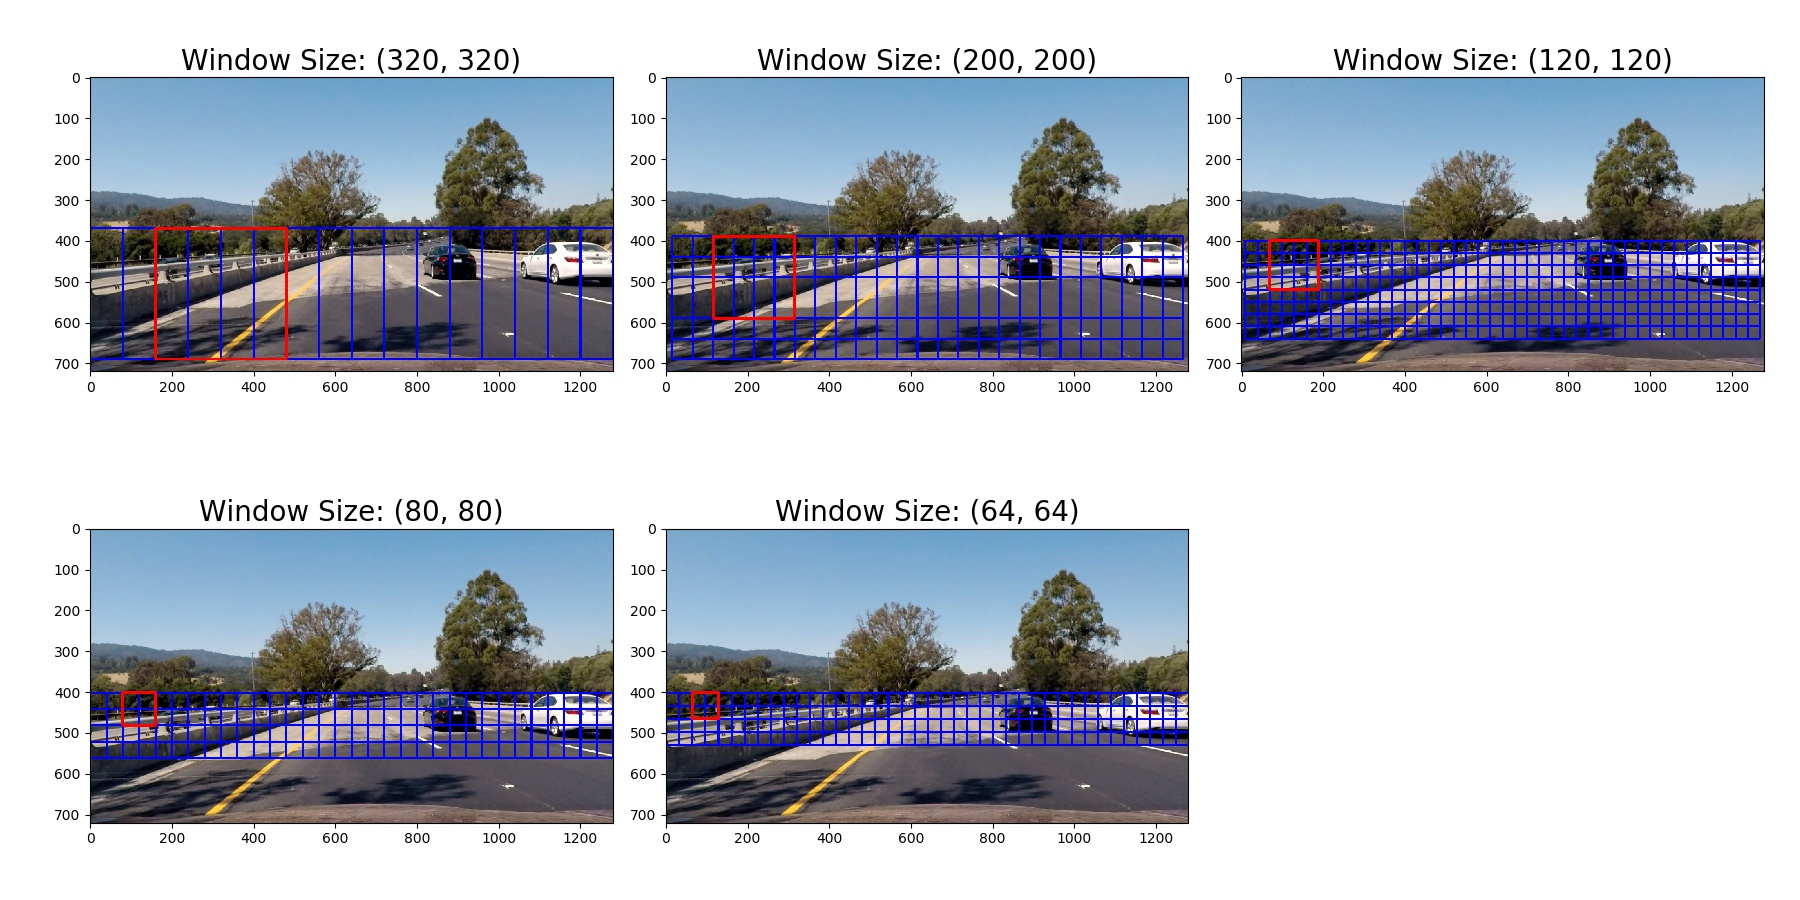
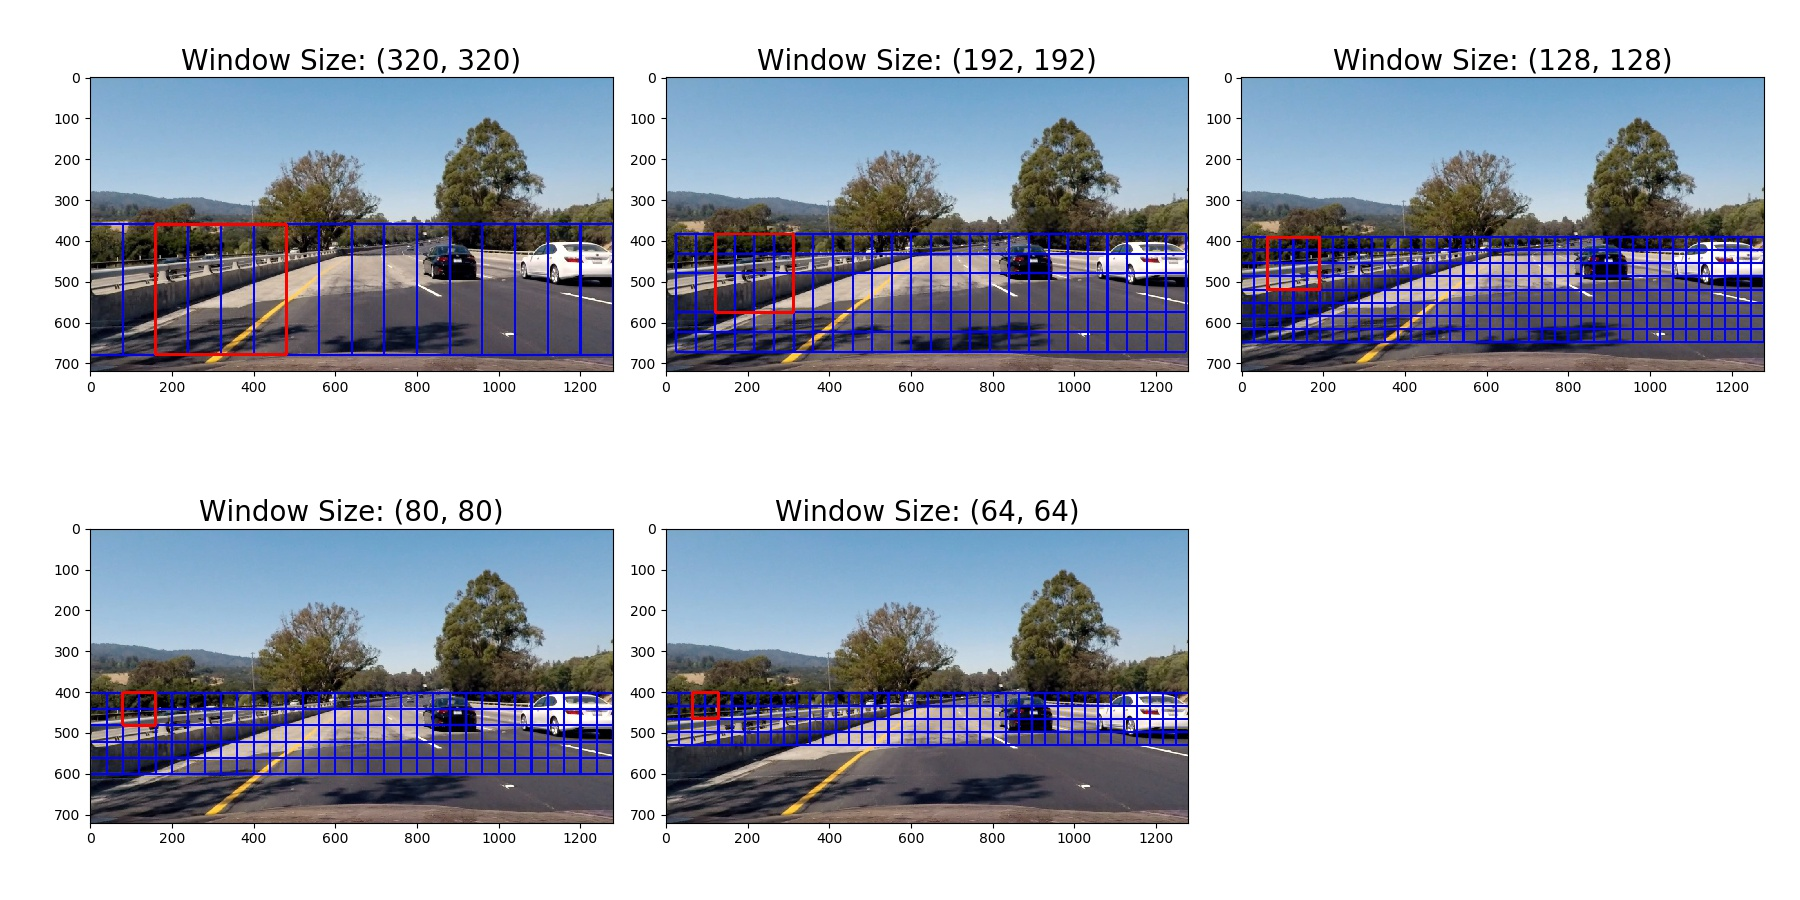
Implement slide window vehicle search

diff --git a/py-src/p05_05_slide_window_search.py b/py-src/p05_05_slide_window_search.py
@@ -1,0 +1,146 @@
+#%% Initialization
+import os
+import cv2
+import numpy as np
+import matplotlib.pyplot as plt
+import matplotlib.image as mpimg
+import pickle
+
+from my_util import print_section_header, determine_color_converter
+import p05_04_determine_slide_window as deter_win
+import p05_02_feature_extraction as feat_ext
+
+
+#%% Step 5 - Slide Window Vehicle Search
+
+def search_vehicle(img, y_start, y_stop,
+                   classifier, feature_scaler,
+                   cspace, spatial_feat, hist_feat, hog_feat,
+                   spatial_size, hist_bins,
+                   orient, pix_per_cell, cell_per_block, hog_channel):
+    # Discard the upper region where vehicles do not appear
+    img = img[y_start:y_stop, :, :]
+    # Convert color space
+    if cspace != 'RGB':
+        color_converter = determine_color_converter('RGB', cspace)
+        img = cv2.cvtColor(img, color_converter)
+
+    bbox_list = []
+    win_size_train = 64
+    window_metrics = deter_win.get_window_metrics(y_start=0)
+    for win_size, x_start_stop, y_start_stop, overlap in window_metrics:
+        # Compute scale
+        scale = win_size / win_size_train
+        x_span_scale = np.int((x_start_stop[1] - x_start_stop[0]) / scale)
+        y_span_scale = np.int((y_start_stop[1] - y_start_stop[0]) / scale)
+
+        # Scale image
+        img_search = img[y_start_stop[0]:y_start_stop[1], x_start_stop[0]:x_start_stop[1]]
+        if scale == 1:
+            img_search = np.copy(img_search)
+        else:
+            img_h, img_w = img_search.shape[0:2]
+            img_search = cv2.resize(img_search, (np.int(img_w / scale), np.int(img_h / scale)))
+
+        # Compute individual channel HOG features for the entire image
+        hog_features_overall = []
+        for i in range(img_search.shape[2]):
+            features = feat_ext.get_hog_features(img_search[:, :, i], orient, pix_per_cell, cell_per_block, vis=False,
+                                                 feature_vec=False)
+            hog_features_overall.append(features)
+
+        # Define blocks and steps as above
+        nb_blocks_per_win = (win_size_train // pix_per_cell) - cell_per_block + 1
+        nb_blocks_x = (x_span_scale // pix_per_cell) - cell_per_block + 1
+        nb_blocks_y = (y_span_scale // pix_per_cell) - cell_per_block + 1
+        # Movement in number of cells per slide window step
+        cells_per_step = np.int(win_size_train * (1 - overlap) // pix_per_cell)
+        # Number of sliding window steps in X and Y directions (slide through HOG feature blocks)
+        nb_steps_x = (nb_blocks_x - nb_blocks_per_win) // cells_per_step + 1
+        nb_steps_y = (nb_blocks_y - nb_blocks_per_win) // cells_per_step + 1
+
+        for step_y in range(nb_steps_y):
+            for step_x in range(nb_steps_x):
+                # Window start position in cells (or, in block indexes (first 2-dimensions) of HOG features)
+                pos_y = step_y * cells_per_step
+                pos_x = step_x * cells_per_step
+                # Window start position in pixels
+                x_left = pos_x * pix_per_cell
+                y_top = pos_y * pix_per_cell
+
+                # Extract the image patch
+                img_win = img_search[y_top:y_top+win_size_train, x_left:x_left+win_size_train]
+
+                features = []
+                if spatial_feat == True:
+                    # Extract binned spatial features
+                    spatial_features = feat_ext.bin_spatial(img_win, size=spatial_size)
+                    features.append(spatial_features)
+                if hist_feat == True:
+                    # Color histograms
+                    hist_features = feat_ext.color_hist(img_win, nbins=hist_bins)
+                    features.append(hist_features)
+                if hog_feat == True:
+                    # Extract HOG features for this patch
+                    hog_features = []
+                    for i in range(len(hog_features_overall)):
+                        hog_feats = hog_features_overall[i][
+                                       pos_y:pos_y + nb_blocks_per_win,
+                                       pos_x:pos_x + nb_blocks_per_win].ravel()
+                        hog_features.append(hog_feats)
+                    features.append(np.hstack(hog_features))
+                test_features = np.hstack(features).reshape(1, -1)
+                # Scale features and make a prediction
+                test_features = feature_scaler.transform(test_features)
+                test_prediction = classifier.predict(test_features)
+
+                if test_prediction == 1:
+                    x_left_orig = np.int(x_left * scale + x_start_stop[0])
+                    y_top_orig = np.int(y_top * scale + y_start + y_start_stop[0])
+                    win_size_orig = np.int(win_size)
+                    bbox_list.append((
+                        (x_left_orig, y_top_orig),
+                        (x_left_orig + win_size_orig, y_top_orig + win_size_orig)))
+    return bbox_list
+
+
+def perform_slide_window_search(img_dir, img_files, out_dir, pickle_file):
+    print_section_header("Slide Window Vehicle Search")
+
+    # Load trained classifier
+    with open(pickle_file, 'rb') as in_file:
+        class_pickle = pickle.load(in_file)
+
+    # Determine list of files to process
+    if len(img_files) == 0:
+        img_files = sorted(os.listdir(img_dir))
+        img_files = [f for f in img_files if not f.startswith('.')]
+
+    for img_file in img_files:
+        # Read an image file and correct distortions
+        img_name = img_file.split('.')[0]
+        img_path = img_dir + img_file
+        img = mpimg.imread(img_path)
+        bbox_list = search_vehicle(img, y_start=360, y_stop=680,
+                       classifier=class_pickle['classifier'], feature_scaler=class_pickle['feature_scaler'],
+                       cspace=class_pickle['cspace'],
+                       spatial_feat=class_pickle['spatial_feat'],
+                       hist_feat=class_pickle['hist_feat'], hog_feat=class_pickle['hog_feat'],
+                       spatial_size=class_pickle['spatial_size'], hist_bins=class_pickle['hist_bins'],
+                       orient=class_pickle['orient'], pix_per_cell=class_pickle['pix_per_cell'],
+                       cell_per_block=class_pickle['cell_per_block'], hog_channel=class_pickle['hog_channel'])
+
+        for bbox in bbox_list:
+            cv2.rectangle(img, bbox[0], bbox[1], (0, 0, 255), 6)
+
+        out_file = out_dir + img_name + '.jpg'
+        print("Store bonding box image to {}".format(out_file))
+        cv2.imwrite(out_file, cv2.cvtColor(img, cv2.COLOR_RGB2BGR))
+
+
+if __name__ == '__main__':
+    # Step 5 - Slide Window Vehicle Search
+    undistorted_img_dir = '../output_images/undistorted/'
+    slide_search_dir = '../output_images/slide_search/'
+    pickle_file = '../results/classifier_YCrCb_sp32_hist32_hog_9_8_2_ALL.p'
+    perform_slide_window_search(undistorted_img_dir, [], slide_search_dir, pickle_file)

diff --git a/py-src/p05_04_determine_slide_window.py b/py-src/p05_04_determine_slide_window.py
@@ -58,14 +58,14 @@ def find_slide_windows(img, x_start_stop=[None, None], y_start_stop=[None, None]
     # Return the list of windows
     return window_list
 
-def get_window_metrics(y_start=370):
+def get_window_metrics(y_start=360):
     # window_metrics = [(xy_window, x_start_stop, y_start_stop, overlap), ...]
     window_metrics = [
-        ((320, 320), [None, None], [y_start, y_start + 320], 0.75),
-        ((200, 200), [15, None], [y_start + 20, y_start + 320], 0.75),
-        ((120, 120), [10, None], [y_start + 30, y_start + 270], 0.75),
-        ((80, 80), [None, None], [y_start + 30, y_start + 190], 0.5),
-        ((64, 64), [None, None], [y_start + 30, y_start + 158], 0.5),
+        (320, [0, 1280], [y_start, y_start + 320], 0.75),
+        (192, [24, 1280], [y_start + 24, y_start + 312], 0.75),
+        (128, [0, 1280], [y_start + 32, y_start + 288], 0.75),
+        (80, [0, 1280], [y_start + 40, y_start + 240], 0.5),
+        (64, [0, 1280], [y_start + 40, y_start + 168], 0.5),
     ]
     return window_metrics
 
@@ -89,7 +89,8 @@ def determine_window_positions(img_dir, img_files, out_dir):
 
         fig, sub_plts = plt.subplots(2, 3, figsize=(18, 9))
         i_win = 0
-        for xy_window, x_start_stop, y_start_stop, overlap in window_metrics:
+        for win_size, x_start_stop, y_start_stop, overlap in window_metrics:
+            xy_window = (win_size, win_size)
             window_list = find_slide_windows(img, x_start_stop=x_start_stop, y_start_stop=y_start_stop,
                                              xy_window=xy_window, xy_overlap=(overlap, overlap))
             img_boxed = draw_boxes(img, window_list, color=(0, 0, 255), thick=3)

diff --git a/py-src/p05_vehicle_detection_main.py b/py-src/p05_vehicle_detection_main.py
@@ -9,6 +9,7 @@ import p05_01_correct_distortion as dist_correct
 import p05_02_feature_extraction as feat_ext
 import p05_03_train_classifier as train_class
 import p05_04_determine_slide_window as deter_win
+import p05_05_slide_window_search as slide_search
 
 project_root_dir = '../'
 output_dir = project_root_dir + 'output_images/'
@@ -20,9 +21,11 @@ test_img_dir = project_root_dir + 'test_images/'
 test_video_dir = project_root_dir + 'test_videos/'
 feat_ext_img_dir = output_dir + 'feat_extract/'
 undistorted_img_dir = output_dir + 'undistorted/'
+slide_win_dir = output_dir + 'slide_win/'
+slide_search_dir = output_dir + 'slide_search/'
+
 binary_lane_dir = output_dir + 'binary_lanes/'
 perspective_trans_dir = output_dir + 'perspective/'
-slide_win_dir = output_dir + 'slide_win/'
 overlay_dir = output_dir + 'overlay/'
 video_dst_dir = output_dir + 'video/'
 
@@ -54,6 +57,11 @@ def detect_vehicle_images(img_files, steps):
     # Step 4 - Determine slide window positions
     if (not steps) or (4 in steps):
         deter_win.determine_window_positions(undistorted_img_dir, img_files, slide_win_dir)
+
+    # Step 5 - Slide Window Vehicle Search
+    if (not steps) or (5 in steps):
+        pickle_file = results_dir + 'classifier_YCrCb_sp32_hist32_hog_9_8_2_ALL.p'
+        slide_search.perform_slide_window_search(undistorted_img_dir, img_files, slide_search_dir, pickle_file)
 
 
 #%% Run lane detection on provided video
